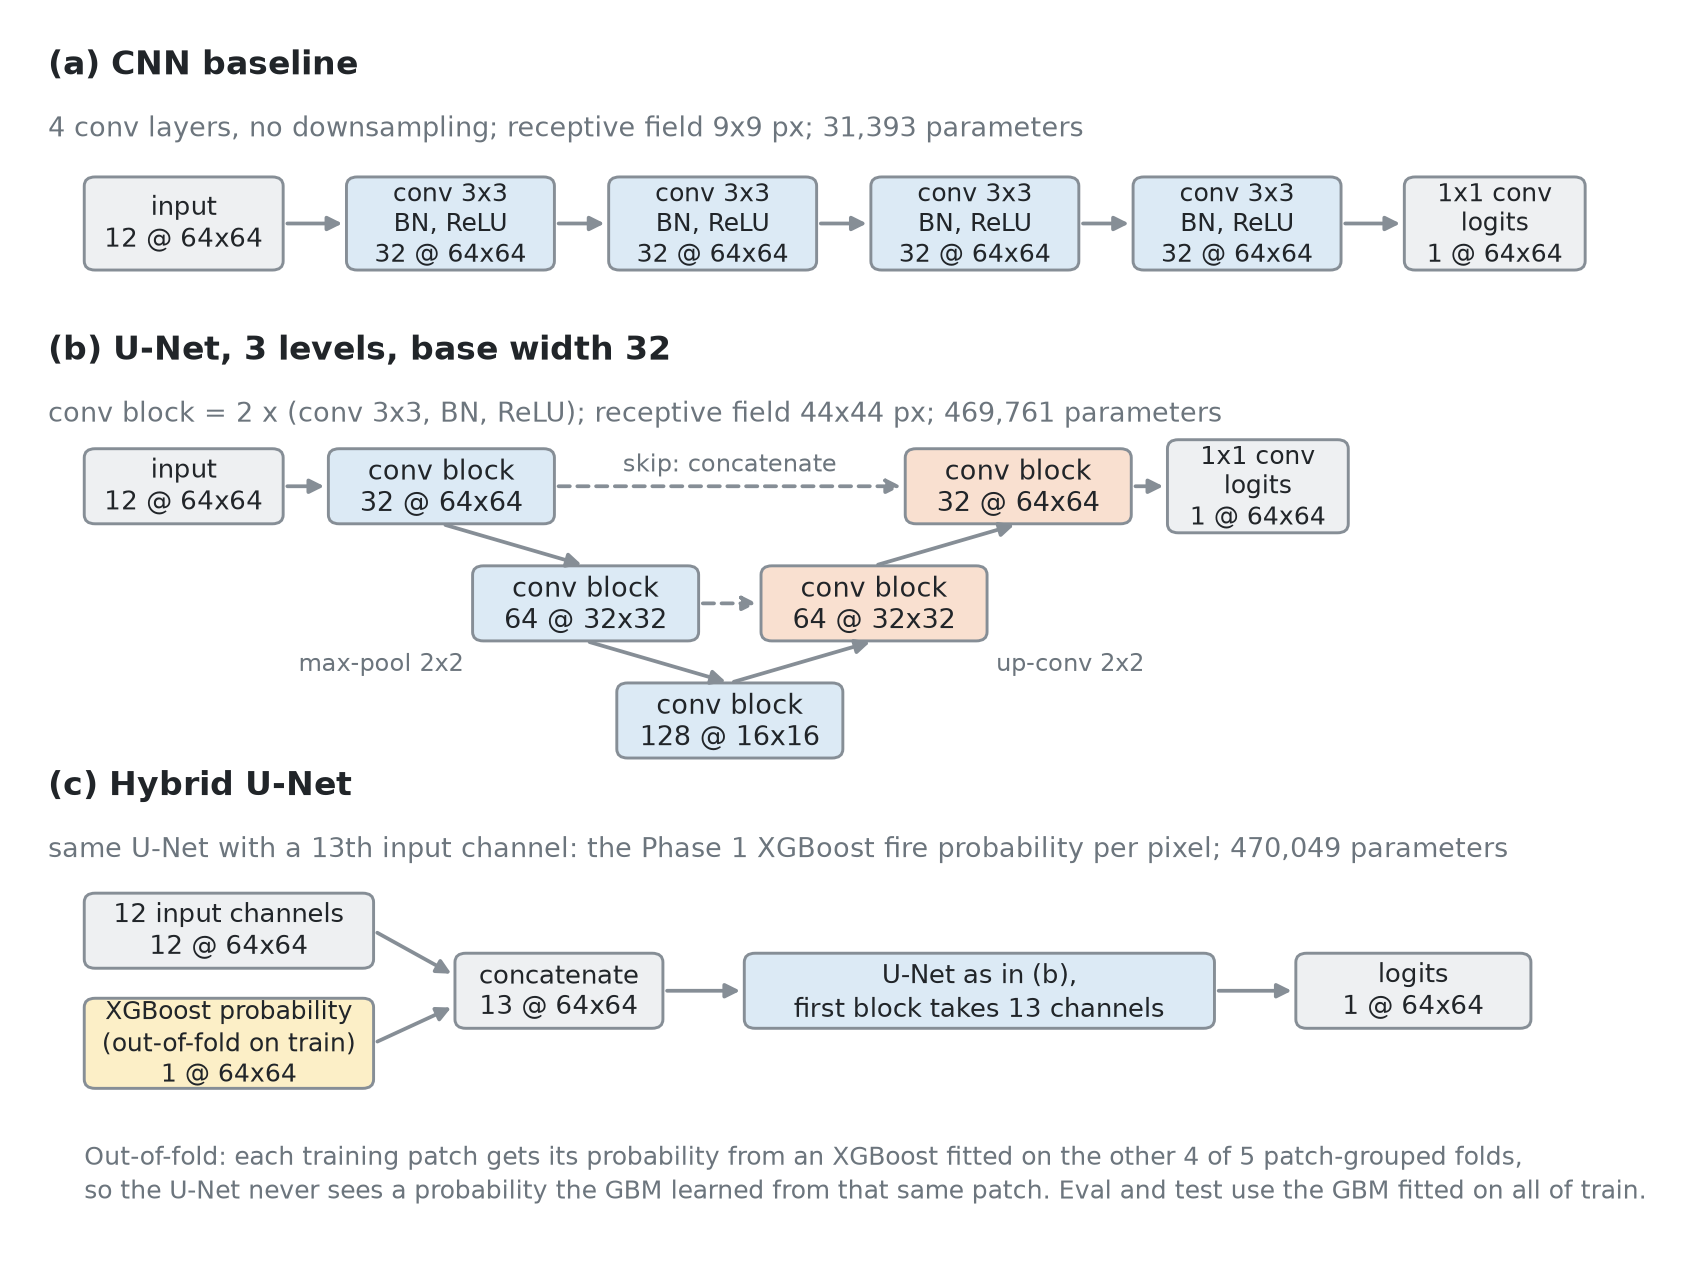
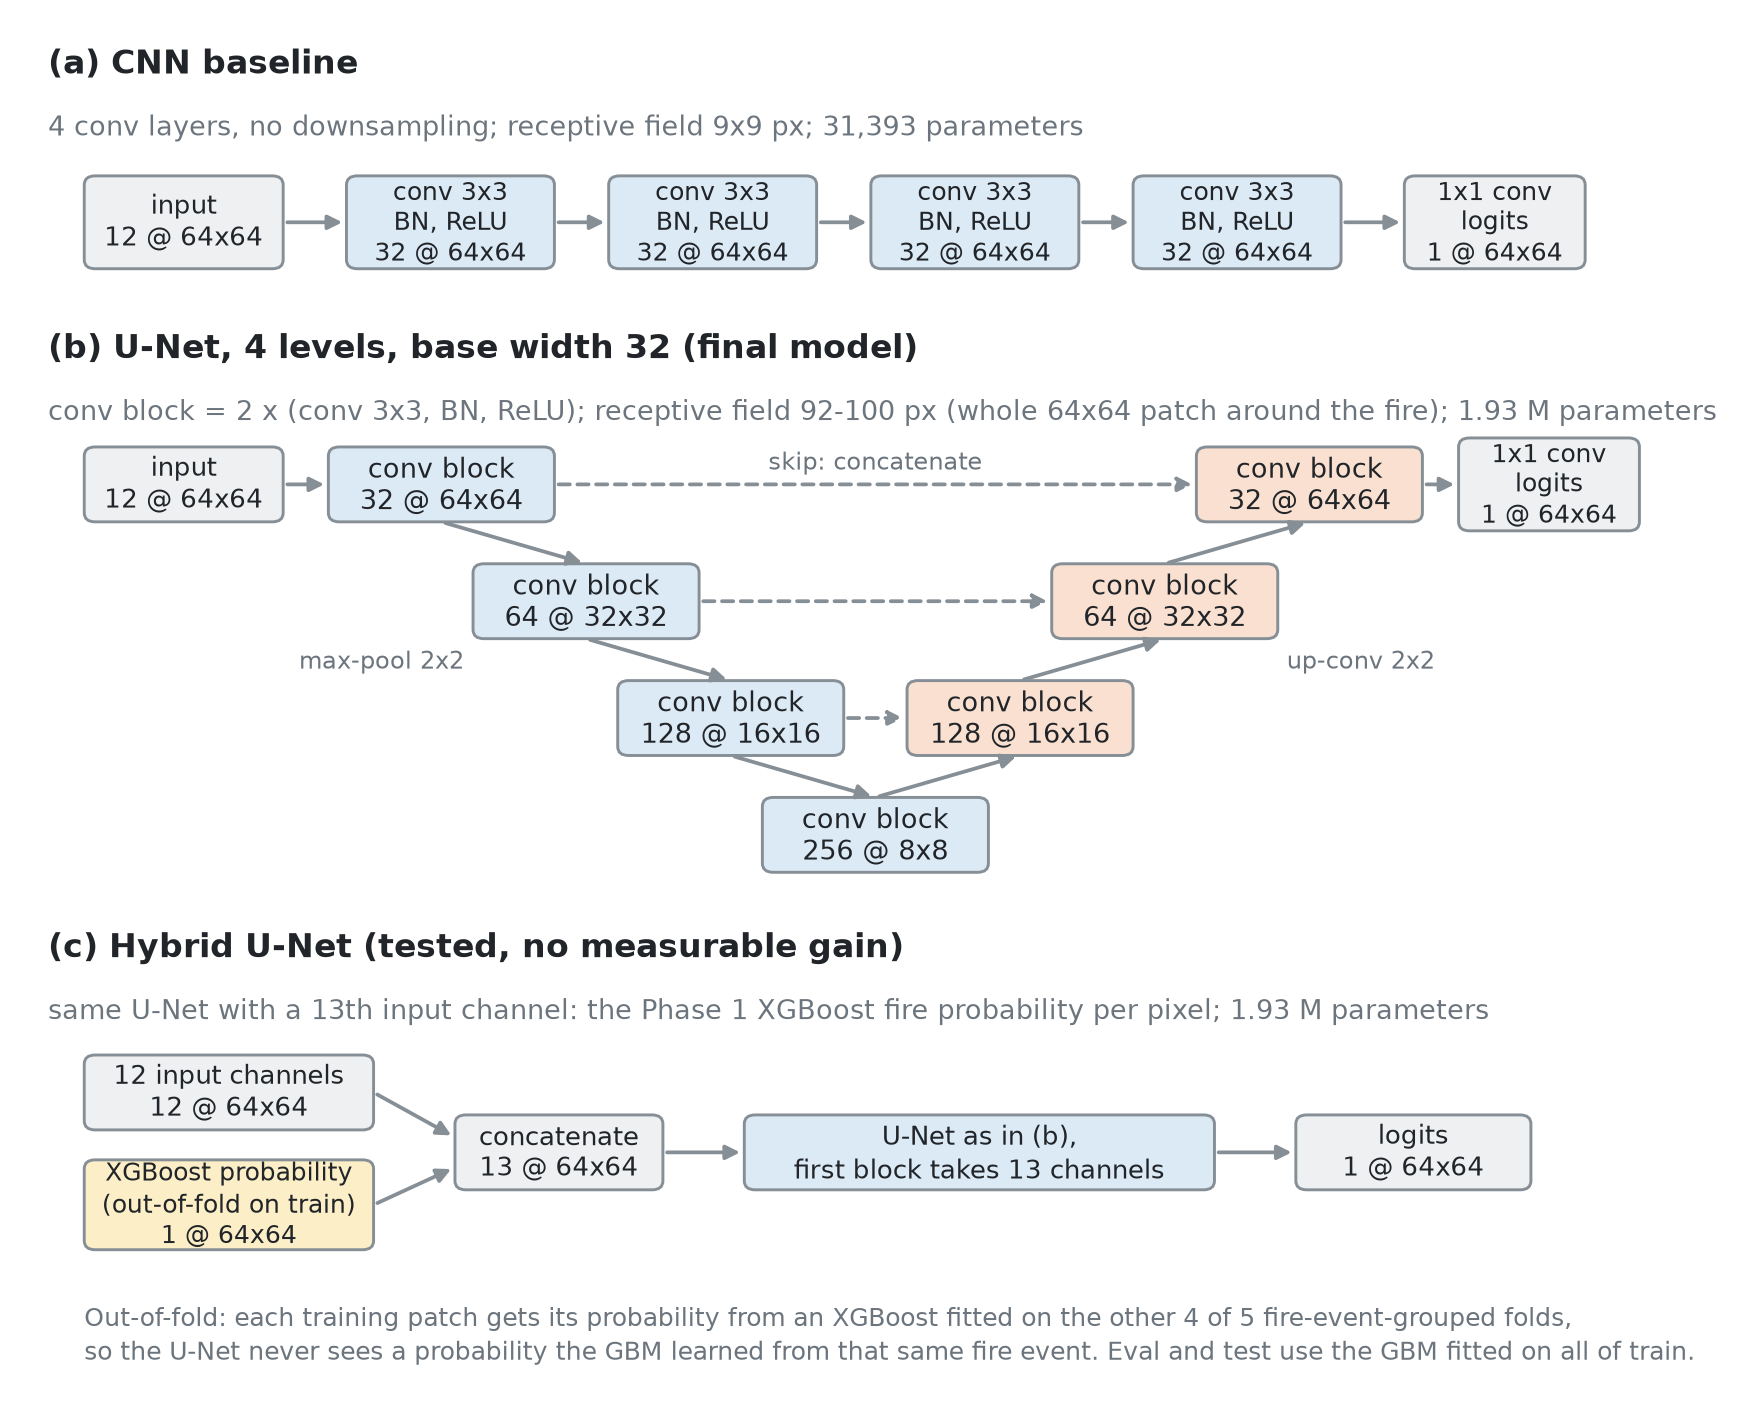
Draw the final depth-4 U-Net in the architecture diagram
Panel (b) shows 4 levels (32/64/128/256, down to 8x8) with the receptive field
measured from the model code (92-100 px); folds are fire-event-grouped; the hybrid
panel is marked as giving no measurable gain.

diff --git a/src/dl_arch_diagram.py b/src/dl_arch_diagram.py
@@ -1,13 +1,15 @@
-"""Draw the Phase 2 architectures: CNN, U-Net (3 levels, width 32, skip connections) and the hybrid U-Net.
+"""Draw the Phase 2 architectures: CNN, the final U-Net (4 levels, width 32, skip connections) and the hybrid U-Net.
 
 Run: python -m src.dl_arch_diagram   ->  reports/dl/figures/dl_architectures.png
-Shapes and parameter counts come from src/dl_models.py (checked below), so the figure cannot drift from the code.
-The hybrid is the same U-Net with a 13th input channel: the Phase 1 XGBoost fire probability for each pixel
-(out-of-fold on train, src/dl_gbm_oof.py on branch sushant/gbm-oof).
+Shapes, parameter counts and receptive fields come from src/dl_models.py (built and measured below), so the
+figure cannot drift from the code. The hybrid is the same U-Net with a 13th input channel: the Phase 1 XGBoost
+fire probability for each pixel (out-of-fold on train). It brings no measurable gain
+(reports/dl/hybrid_ensemble_summary.md) and is not the final model.
 """
 from pathlib import Path
 
 import matplotlib
+import torch
 
 matplotlib.use("Agg")
 import matplotlib.pyplot as plt
@@ -40,43 +42,67 @@ def title(ax, x, y, text, sub):
     ax.text(x, y - 0.22, sub, fontsize=6.4, color=MUTED, va="top")
 
 
-def unet(ax, x0, y0, in_label, in_fill):
-    """U-Net drawing with its lower-left corner at (x0, y0); returns nothing."""
-    w, h, dx, dy = 1.25, 0.5, 1.45, 0.78
-    box(ax, x0, y0 + 2 * dy, 1.1, h, in_label, in_fill, size=6.2)
-    enc = [(x0 + 1.35, y0 + 2 * dy, "32 @ 64x64"), (x0 + 1.35 + dx * 0.55, y0 + dy, "64 @ 32x32"),
-           (x0 + 1.35 + dx * 1.1, y0, "128 @ 16x16")]
-    dec = [(x0 + 1.35 + dx * 1.65, y0 + dy, "64 @ 32x32"), (x0 + 1.35 + dx * 2.2, y0 + 2 * dy, "32 @ 64x64")]
+def receptive_field(m, size=256):
+    """Smallest and largest side of the input window one output pixel depends on, measured from input
+    gradients at 16 neighbouring positions (it varies with the position relative to the pooling grid)."""
+    torch.manual_seed(0)
+    m.eval()
+    x = torch.randn(1, IN_CH, size, size, requires_grad=True)
+    y = m(x)
+    sides = []
+    for p in range(size // 2 - 8, size // 2 + 8):
+        x.grad = None
+        y[0, 0, p, p].backward(retain_graph=True)
+        rows = (x.grad.abs().sum((0, 1)) > 0).any(1).nonzero()
+        sides.append(int(rows.max() - rows.min() + 1))
+    lo, hi = min(sides), max(sides)
+    return f"{lo}x{lo}" if lo == hi else f"{lo}-{hi}"
+
+
+def unet(ax, x0, y0, in_label, in_fill, widths, size=64):
+    """U-Net drawing with its lower-left corner at (x0, y0); one encoder block per entry of widths."""
+    depth = len(widths)
+    w, h, dx, dy = 1.25, 0.5, 0.8, 0.78
+    top = y0 + (depth - 1) * dy
+    box(ax, x0, top, 1.1, h, in_label, in_fill, size=6.2)
+    enc = [(x0 + 1.35 + i * dx, top - i * dy, f"{c} @ {size >> i}x{size >> i}") for i, c in enumerate(widths)]
+    dec = [(x0 + 1.35 + (depth - 1 + j) * dx, top - (depth - 1 - j) * dy,
+            f"{widths[depth - 1 - j]} @ {size >> (depth - 1 - j)}x{size >> (depth - 1 - j)}") for j in range(1, depth)]
     for bx, by, t in enc:
         box(ax, bx, by, w, h, f"conv block\n{t}", ENC)
     for bx, by, t in dec:
         box(ax, bx, by, w, h, f"conv block\n{t}", DEC)
-    hx = dec[1][0] + w + 0.2
-    box(ax, hx, y0 + 2 * dy - 0.06, 1.0, h + 0.12, "1x1 conv\nlogits\n1 @ 64x64", INP, size=6.0)
-    arrow(ax, (x0 + 1.1, y0 + 2 * dy + h / 2), (enc[0][0], y0 + 2 * dy + h / 2))
-    arrow(ax, (dec[1][0] + w, y0 + 2 * dy + h / 2), (hx, y0 + 2 * dy + h / 2))
+    hx = dec[-1][0] + w + 0.2
+    box(ax, hx, top - 0.06, 1.0, h + 0.12, "1x1 conv\nlogits\n1 @ 64x64", INP, size=6.0)
+    arrow(ax, (x0 + 1.1, top + h / 2), (enc[0][0], top + h / 2))
+    arrow(ax, (dec[-1][0] + w, top + h / 2), (hx, top + h / 2))
     for (ax0, ay0, _), (bx0, by0, _) in zip(enc, enc[1:]):            # down: max-pool 2x2
         arrow(ax, (ax0 + w / 2, ay0), (bx0 + w / 2, by0 + h))
-    for (ax0, ay0, _), (bx0, by0, _) in zip([enc[2], dec[0]], dec):    # up: transposed conv 2x2
+    for (ax0, ay0, _), (bx0, by0, _) in zip([enc[-1]] + dec[:-1], dec):  # up: transposed conv 2x2
         arrow(ax, (ax0 + w / 2, ay0 + h), (bx0 + w / 2, by0))
-    for (ex, ey, _), (qx, qy, _) in zip(enc[:2], dec[::-1]):           # skip connections (concatenate)
+    for (ex, ey, _), (qx, qy, _) in zip(enc[:-1], dec[::-1]):          # skip connections (concatenate)
         arrow(ax, (ex + w, ey + h / 2), (qx, qy + h / 2), ls=(0, (3, 2)))
-    ax.text(enc[1][0] - 0.05, y0 + dy - 0.2, "max-pool 2x2", fontsize=5.8, color=MUTED, ha="right")
-    ax.text(dec[0][0] + w + 0.05, y0 + dy - 0.2, "up-conv 2x2", fontsize=5.8, color=MUTED, ha="left")
-    ax.text((enc[0][0] + w + dec[1][0]) / 2, y0 + 2 * dy + h / 2 + 0.06, "skip: concatenate", fontsize=5.8,
+    ax.text(enc[1][0] - 0.05, enc[1][1] - 0.2, "max-pool 2x2", fontsize=5.8, color=MUTED, ha="right")
+    ax.text(dec[-2][0] + w + 0.05, dec[-2][1] - 0.2, "up-conv 2x2", fontsize=5.8, color=MUTED, ha="left")
+    ax.text((enc[0][0] + w + dec[-1][0]) / 2, top + h / 2 + 0.06, "skip: concatenate", fontsize=5.8,
             color=MUTED, ha="center", va="bottom")
 
 
 def main():
-    cnn, un, hyb = build_model("cnn"), build_model("unet", depth=3, width=32), build_model("unet", in_ch=IN_CH + 1)
-    assert IN_CH == 12 and len(un.down) == 3 and un.down[0][0].out_channels == 32 and hyb.down[0][0].in_channels == 13
+    depth, width = 4, 32                                   # final Phase 2 model (unet_final_s0..s2)
+    cnn = build_model("cnn")
+    un = build_model("unet", depth=depth, width=width)
+    hyb = build_model("unet", depth=depth, width=width, in_ch=IN_CH + 1)
+    widths = [blk[0].out_channels for blk in un.down]
+    assert IN_CH == 12 and widths == [32, 64, 128, 256] and hyb.down[0][0].in_channels == 13
+    rf_cnn, rf_un = receptive_field(cnn), receptive_field(un)
 
-    fig, ax = plt.subplots(figsize=(7.0, 5.2))
-    ax.set(xlim=(0, 9.0), ylim=(0.6, 8.6))
+    fig, ax = plt.subplots(figsize=(7.0, 5.9))
+    ax.set(xlim=(0, 9.0), ylim=(-0.5, 8.6))
     ax.axis("off")
 
     # (a) CNN
-    title(ax, 0.1, 8.25, "(a) CNN baseline", f"4 conv layers, no downsampling; receptive field 9x9 px; "
+    title(ax, 0.1, 8.25, "(a) CNN baseline", f"4 conv layers, no downsampling; receptive field {rf_cnn} px; "
                                              f"{n_params(cnn):,} parameters")
     y = 7.0
     box(ax, 0.3, y, 1.1, 0.62, "input\n12 @ 64x64", INP, size=6.2)
@@ -88,14 +114,16 @@ def main():
     arrow(ax, (xs[-1] + 1.15, y + 0.31), (xs[-1] + 1.5, y + 0.31))
 
     # (b) U-Net
-    title(ax, 0.1, 6.35, "(b) U-Net, 3 levels, base width 32",
-          f"conv block = 2 x (conv 3x3, BN, ReLU); receptive field 44x44 px; {n_params(un):,} parameters")
-    unet(ax, 0.3, 3.75, "input\n12 @ 64x64", INP)
+    title(ax, 0.1, 6.35, f"(b) U-Net, {depth} levels, base width {width} (final model)",
+          f"conv block = 2 x (conv 3x3, BN, ReLU); receptive field {rf_un} px (whole 64x64 patch around the "
+          f"fire); {n_params(un) / 1e6:.2f} M parameters")
+    unet(ax, 0.3, 2.97, "input\n12 @ 64x64", INP, widths)
 
     # (c) Hybrid
-    title(ax, 0.1, 3.45, "(c) Hybrid U-Net", f"same U-Net with a 13th input channel: the Phase 1 XGBoost fire "
-                                            f"probability per pixel; {n_params(hyb):,} parameters")
-    y = 1.9
+    title(ax, 0.1, 2.35, "(c) Hybrid U-Net (tested, no measurable gain)",
+          f"same U-Net with a 13th input channel: the Phase 1 XGBoost fire probability per pixel; "
+          f"{n_params(hyb) / 1e6:.2f} M parameters")
+    y = 0.8
     box(ax, 0.3, y + 0.45, 1.6, 0.5, "12 input channels\n12 @ 64x64", INP, size=6.2)
     box(ax, 0.3, y - 0.35, 1.6, 0.6, "XGBoost probability\n(out-of-fold on train)\n1 @ 64x64", GBM, size=6.0)
     box(ax, 2.35, y + 0.05, 1.15, 0.5, "concatenate\n13 @ 64x64", INP, size=6.2)
@@ -105,9 +133,9 @@ def main():
     arrow(ax, (3.5, y + 0.3), (3.95, y + 0.3))
     box(ax, 7.0, y + 0.05, 1.3, 0.5, "logits\n1 @ 64x64", INP, size=6.2)
     arrow(ax, (6.55, y + 0.3), (7.0, y + 0.3))
-    ax.text(0.3, 1.2, "Out-of-fold: each training patch gets its probability from an XGBoost fitted on the "
-                       "other 4 of 5 patch-grouped folds,\nso the U-Net never sees a probability the GBM learned "
-                       "from that same patch. Eval and test use the GBM fitted on all of train.",
+    ax.text(0.3, 0.1, "Out-of-fold: each training patch gets its probability from an XGBoost fitted on the "
+                       "other 4 of 5 fire-event-grouped folds,\nso the U-Net never sees a probability the GBM learned "
+                       "from that same fire event. Eval and test use the GBM fitted on all of train.",
             fontsize=6.0, color=MUTED, va="top", linespacing=1.35)
 
     OUT.parent.mkdir(parents=True, exist_ok=True)
